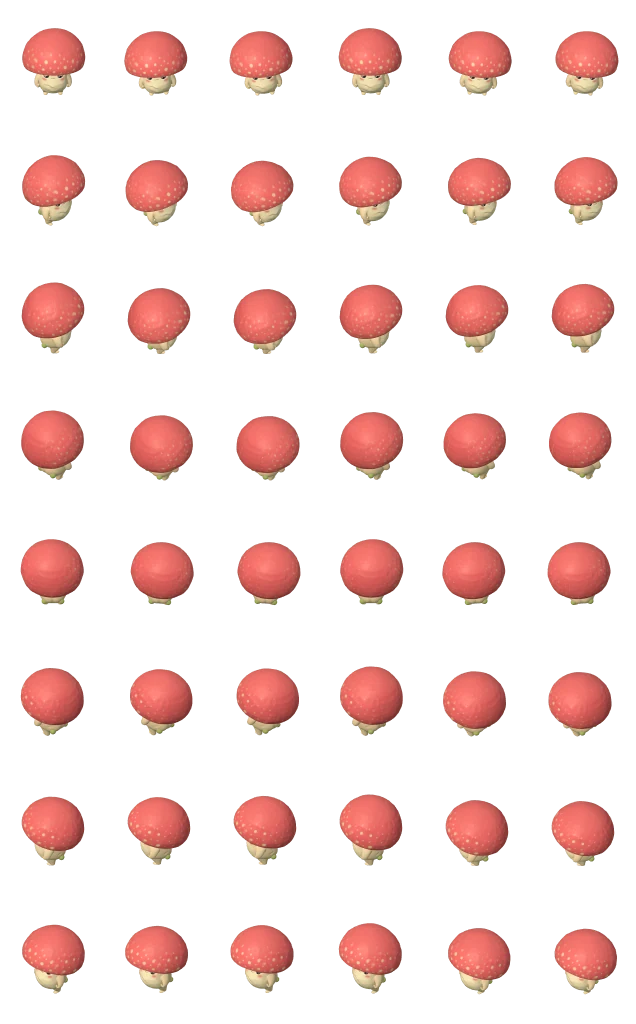
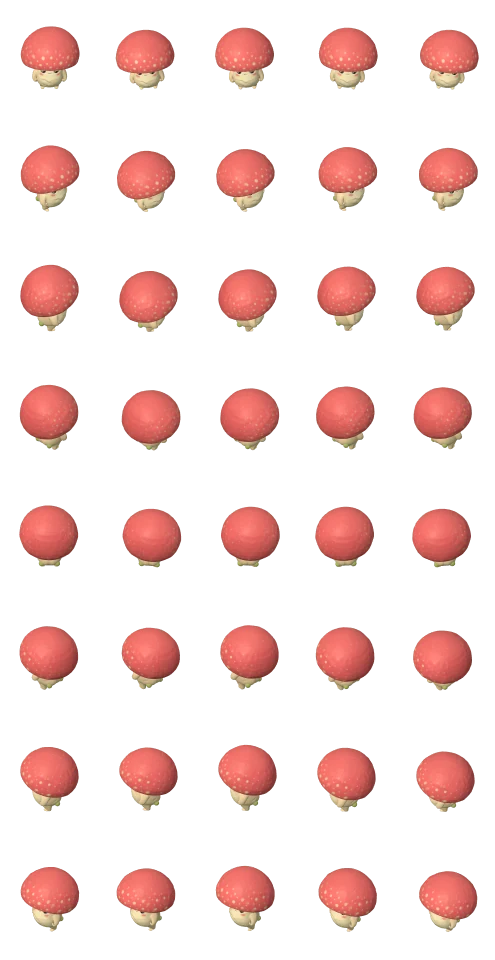
B2: Carvalho Ancestral (chefe do Bosque) pintado e animado, maior; atlas dos comuns em 5 quadros x 120 px para caber no orcamento de memoria; desenho antigo removido

diff --git a/public/src/render/renderer.js b/public/src/render/renderer.js
@@ -639,20 +639,7 @@ function drawMob(g, a, t) {
       break;
     }
     // shroom: só existe pintado (assets/mobs/shroom); o desenho antigo foi removido
-    case 'treant': {
-      g.fillStyle = '#6e5038';
-      g.beginPath(); g.moveTo(-16, 16); g.lineTo(-12, -16); g.lineTo(12, -16); g.lineTo(16, 16); g.quadraticCurveTo(0, 22, -16, 16); g.fill();
-      g.strokeStyle = '#6e5038'; g.lineWidth = 5; g.lineCap = 'round';
-      const sw = Math.sin(t * 2) * 4 + (a.swing > 0 ? 8 : 0);
-      g.beginPath(); g.moveTo(-12, -4); g.lineTo(-26, 6 + sw); g.stroke();
-      g.beginPath(); g.moveTo(12, -4); g.lineTo(26, 6 - sw); g.stroke();
-      g.fillStyle = '#3e6b3a'; circle(g, 0, -26, 22); g.fill();
-      g.fillStyle = '#5a8f4e'; circle(g, -7, -30, 15); g.fill();
-      g.fillStyle = '#7fb06a'; circle(g, -11, -36, 7); g.fill();
-      g.fillStyle = '#ffe27a'; circle(g, -5, -4, 2.6); g.fill(); circle(g, 5, -4, 2.6); g.fill();
-      g.fillStyle = '#3a2a1e'; g.fillRect(-5, 4, 10, 2.5);
-      break;
-    }
+    // treant: só existe pintado (assets/mobs/treant); o desenho antigo foi removido
     case 'golem': {
       g.translate(0, bob * 0.4);
       const sw = a.swing > 0 ? 5 : 0;

diff --git a/public/src/render/mob-sprites.js b/public/src/render/mob-sprites.js
@@ -27,7 +27,7 @@ function loadIndex() {
 }
 
 // Quanto o desenho da célula (com margem) é mais alto que o raio de colisão da criatura; ajustável por criatura.
-const ART = { default: { h: 3.4 }, slime: { h: 3.0 }, treant: { h: 3.6 }, wolf: { h: 3.1 }, crystalwolf: { h: 2.8 }, wisp: { h: 3.0 }, wraith: { h: 3.4 } };
+const ART = { default: { h: 3.4 }, slime: { h: 3.0 }, treant: { h: 5.2 }, wolf: { h: 3.1 }, crystalwolf: { h: 2.8 }, wisp: { h: 3.0 }, wraith: { h: 3.4 } };
 
 function load(id) {
   let it = items.get(id);

diff --git a/docs/CREDITOS.md b/docs/CREDITOS.md
@@ -53,3 +53,4 @@ Modelos 3D do Meshy (CC BY 4.0) fotografados em 8 direções por `tools/mob-bake
 ## Monstros (Meshy, CC BY 4.0)
 Geleia (`slime`) e Lobo Cinzento (`wolf`): modelos 3D gerados no Meshy a partir de imagens de conceito do proprietário, fotografados em 8 direções por `tools/mob-bake.mjs` (`public/assets/mobs/`). Imagens de conceito: origem/licença a confirmar.
 Cogumelo Esporento (`shroom`): mesma origem (Meshy, CC BY 4.0), animado por deformação `waddle`.
+Carvalho Ancestral (`treant`, chefe do Bosque): mesma origem (Meshy, CC BY 4.0).
